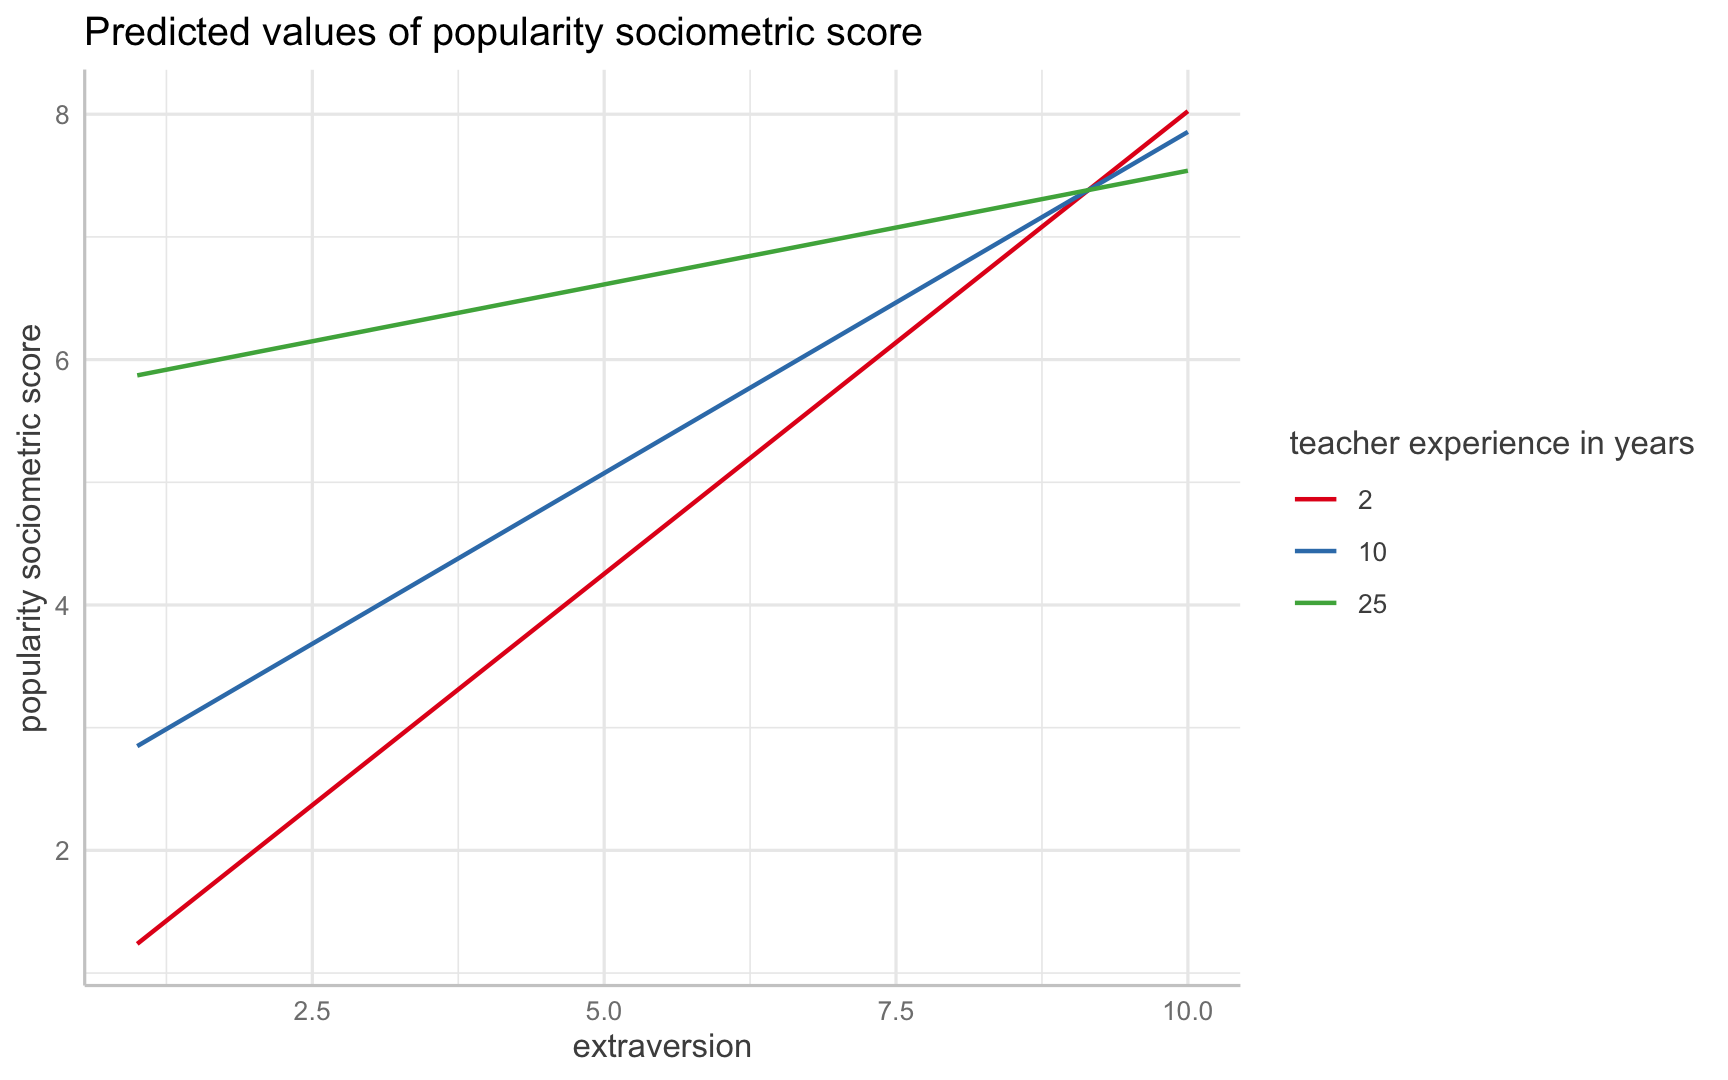
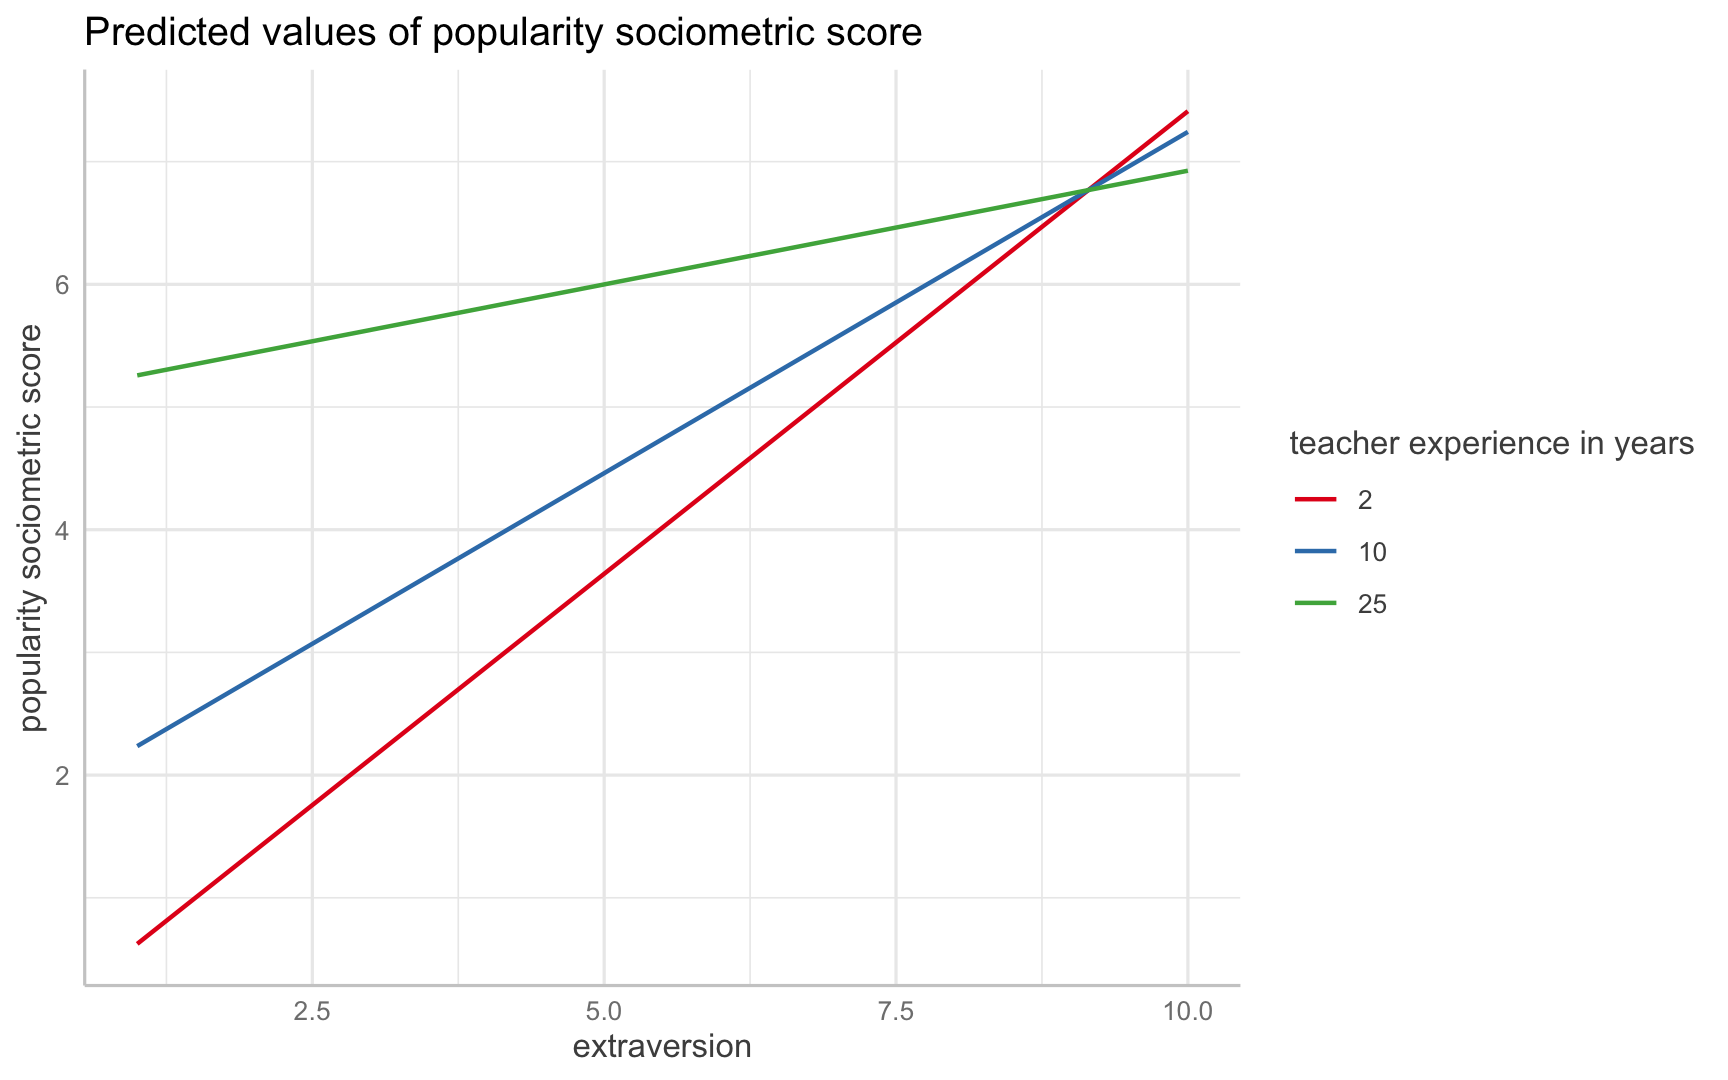
Nested data slide tweaks

Changed region(s): [[0.0312, 0.0917, 0.0625, 0.1222]]

diff --git a/slides/EDUC645_nested_data_Sp23.html b/slides/EDUC645_nested_data_Sp23.html
@@ -889,7 +889,7 @@ Teacher experience is a continuous variable ranging from 2 to 25 years, so we'll
 ```r
 # using the ggeffects package
 library(ggeffects)
-pop_m3_int_pred &lt;- ggpredict(pop_m3_int_fin,
+pop_m3_int_pred &lt;- ggeffect(pop_m3_int_fin,
                              type = "re",
                              terms = c("extrav", "texp [2, 10, 25]"))
 ```
@@ -908,40 +908,36 @@ pop_m3_int_pred
 #&gt; 
 #&gt; # texp = 2
 #&gt; 
-#&gt; extrav | Predicted |        95% CI
-#&gt; ----------------------------------
-#&gt;      1 |      1.24 | [-0.28, 2.75]
-#&gt;      2 |      1.99 | [ 0.49, 3.49]
-#&gt;      4 |      3.50 | [ 2.02, 4.98]
-#&gt;      6 |      5.01 | [ 3.53, 6.49]
-#&gt;      7 |      5.76 | [ 4.28, 7.24]
-#&gt;     10 |      8.02 | [ 6.52, 9.53]
+#&gt; extrav | Predicted |       95% CI
+#&gt; ---------------------------------
+#&gt;      1 |      0.62 | [0.21, 1.04]
+#&gt;      2 |      1.38 | [1.02, 1.74]
+#&gt;      4 |      2.89 | [2.62, 3.16]
+#&gt;      6 |      4.39 | [4.16, 4.63]
+#&gt;      7 |      5.15 | [4.90, 5.39]
+#&gt;     10 |      7.41 | [7.04, 7.78]
 #&gt; 
 #&gt; # texp = 10
 #&gt; 
 #&gt; extrav | Predicted |       95% CI
 #&gt; ---------------------------------
-#&gt;      1 |      2.85 | [1.37, 4.33]
-#&gt;      2 |      3.41 | [1.93, 4.88]
-#&gt;      4 |      4.52 | [3.05, 5.98]
-#&gt;      6 |      5.63 | [4.17, 7.10]
-#&gt;      7 |      6.19 | [4.72, 7.65]
-#&gt;     10 |      7.86 | [6.38, 9.33]
+#&gt;      1 |      2.24 | [2.00, 2.47]
+#&gt;      2 |      2.79 | [2.59, 2.99]
+#&gt;      4 |      3.90 | [3.75, 4.05]
+#&gt;      6 |      5.02 | [4.89, 5.15]
+#&gt;      7 |      5.57 | [5.43, 5.71]
+#&gt;     10 |      7.24 | [7.03, 7.46]
 #&gt; 
 #&gt; # texp = 25
 #&gt; 
 #&gt; extrav | Predicted |       95% CI
 #&gt; ---------------------------------
-#&gt;      1 |      5.87 | [4.37, 7.37]
-#&gt;      2 |      6.06 | [4.57, 7.54]
-#&gt;      4 |      6.43 | [4.95, 7.90]
-#&gt;      6 |      6.80 | [5.32, 8.27]
-#&gt;      7 |      6.98 | [5.51, 8.46]
-#&gt;     10 |      7.54 | [6.03, 9.05]
-#&gt; 
-#&gt; Adjusted for:
-#&gt; *   sex = Female
-#&gt; * class = 0 (population-level)
+#&gt;      1 |      5.26 | [4.91, 5.60]
+#&gt;      2 |      5.44 | [5.15, 5.74]
+#&gt;      4 |      5.81 | [5.59, 6.04]
+#&gt;      6 |      6.18 | [5.97, 6.40]
+#&gt;      7 |      6.37 | [6.13, 6.61]
+#&gt;     10 |      6.93 | [6.55, 7.30]
 ```
 
 ---

diff --git a/slides/my_custom.css b/slides/my_custom.css
@@ -24238,3 +24238,30 @@
 .small {
   font-size: 90%;
 }
+
+
+/* Extra CSS */
+.red {
+  color: red;
+}
+.blue {
+  color: blue;
+}
+.green {
+  color: #8bb174;
+}
+.purple {
+  color: #6A5ACD;
+}
+.red-pink {
+  color: #e64173;
+}
+.grey-light {
+  color: grey70;
+}
+.slate {
+  color: #314f4f;
+}
+.small {
+  font-size: 90%;
+}
